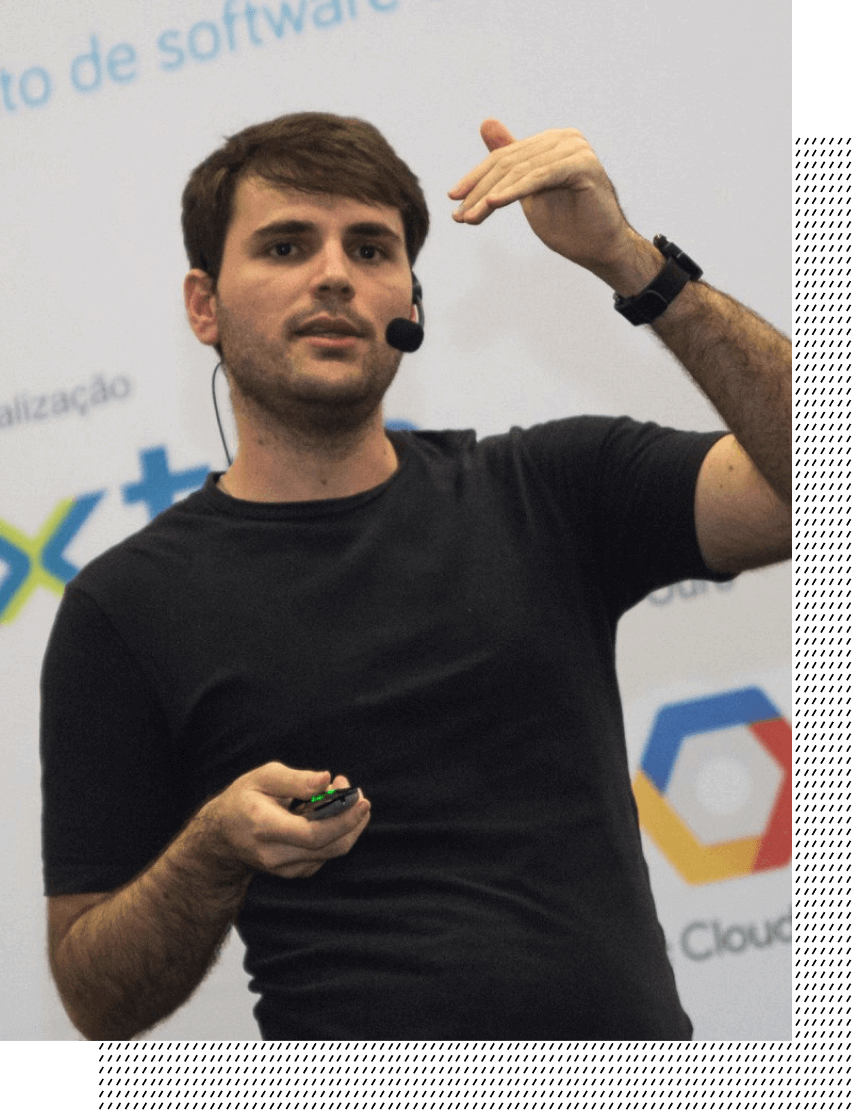
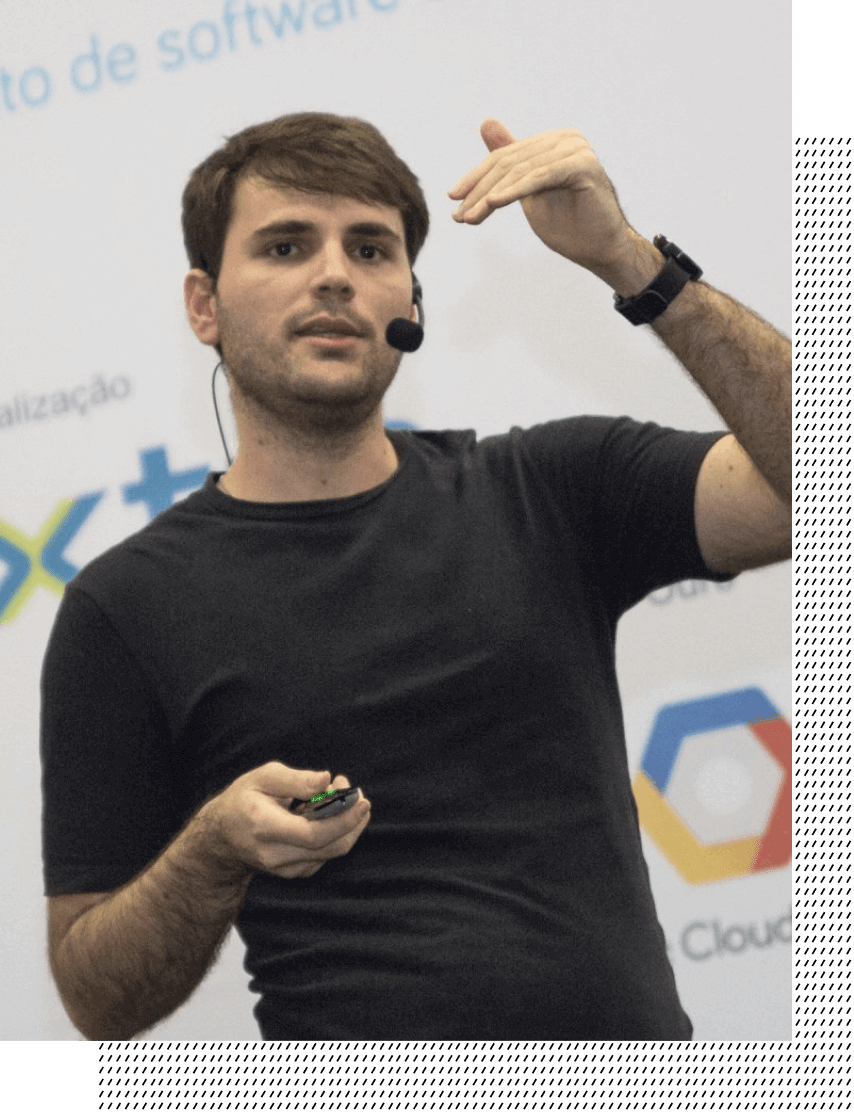
Add webp images

diff --git a/docs/css/index.css b/docs/css/index.css
@@ -1,1 +1,1 @@
[2 lines of base64/hex data omitted]

diff --git a/docs/css/cv.css b/docs/css/cv.css
@@ -1,1 +1,1 @@
[2 lines of base64/hex data omitted]

diff --git a/docs/cv.html b/docs/cv.html
@@ -1,4 +1,4 @@
-<!DOCTYPE html><html lang="en" class="no-js"><head><meta charset="UTF-8"><meta http-equiv="X-UA-Compatible" content="IE=edge"><meta name="viewport" content="width=device-width, initial-scale=1"><meta name="title" content="Matheus Costa • Resume"><meta name="description" content="This is Matheus's resume. You can either check online or download the pdf version"><meta property="og:type" content="website"><meta property="og:url" content="https://matheusagcosta.com"><meta property="og:title" content="Matheus Costa • Resume"><meta property="og:description" content="This is Matheus's resume. You can either check online or download the pdf version"><meta property="og:image" content="https://matheusagcosta.com/assets/image-matheus.jpg"><meta property="og:locale" content="en_US"><meta property="og:site_name" content="matheusagcosta"><meta property="twitter:card" content="summary_large_image"><meta property="twitter:url" content="https://matheusagcosta.com"><meta property="twitter:title" content="Matheus Costa • Resume"><meta property="twitter:description" content="This is Matheus's resume. You can either check online or download the pdf version"><meta property="twitter:image" content="https://matheusagcosta.com/assets/image-matheus.jpg"><meta name="twitter:site" content="@matheusagcosta"><meta name="twitter:image:src" content="https://matheusagcosta.com/assets/image-matheus.jpg"><meta name="twitter:card" content="summary_large_image"><meta name="twitter:title" content="Matheus Costa • Resume"><meta name="twitter:description" content="This is Matheus's resume. You can either check online or download the pdf version"><meta name="keywords" content="ui developer, ux developer, ui designer, web designer, designer, front-end developer, front-end designer"><meta name="author" content="Matheus Costa"><meta name="theme-color" content="#C56552"><meta name="msapplication-TileColor" content="#ffffff"><link rel="apple-touch-icon" sizes="180x180" href="/assets/favicon/apple-touch-icon.png?v=zXbkA6lpMr"><link rel="icon" type="image/png" sizes="32x32" href="/assets/favicon/favicon-32x32.png?v=zXbkA6lpMr"><link rel="icon" type="image/png" sizes="16x16" href="/assets/favicon/favicon-16x16.png?v=zXbkA6lpMr"><link rel="manifest" href="/assets/favicon/site.webmanifest?v=zXbkA6lpMr"><link rel="mask-icon" href="/assets/favicon/safari-pinned-tab.svg?v=zXbkA6lpMr" color="#c56552"><link rel="shortcut icon" href="/assets/favicon/favicon.ico?v=zXbkA6lpMr"><link rel="stylesheet" href="/css/cv.css"><title>Matheus Costa • Resume</title></head><body id="contrast-on"><header role="banner" class="header header--fixed"><a href="/" aria-label="logo" class="header__logo logo is-light-visible"><svg viewBox="0 0 42 42" fill="none" xmlns="http://www.w3.org/2000/svg" class="logo__image"><path fill-rule="evenodd" clip-rule="evenodd" d="M38 4H4v34h34V4zM0 0v42h42V0H0z"></path><path d="M24.767 29v-8.228l-2.618 5.786h-2.288l-2.618-5.786V29h-4.29V13.38h4.686l3.366 7.348 3.388-7.348h4.664V29h-4.29z"></path></svg></a><a href="/#contrast-on" aria-label="logo" class="header__logo logo is-dark-visible"><svg viewBox="0 0 42 42" fill="none" xmlns="http://www.w3.org/2000/svg" class="logo__image"><path fill-rule="evenodd" clip-rule="evenodd" d="M38 4H4v34h34V4zM0 0v42h42V0H0z"></path><path d="M24.767 29v-8.228l-2.618 5.786h-2.288l-2.618-5.786V29h-4.29V13.38h4.686l3.366 7.348 3.388-7.348h4.664V29h-4.29z"></path></svg></a><div class="header__actions"><nav class="header__switcher"><a href="#contrast-on" aria-label="Dark" class="header__toggle"></a><a href="#contrast-off" aria-label="Light" class="header__toggle"></a><span class="header__button"></span></nav><nav class="header__menu"><a href="/cv-matheusagcosta.pdf" aria-label="Link to Download" class="header__link">Download</a><a href="/" aria-label="Link to Home" class="header__link is-light-visible">Home</a><a href="/#contrast-on" aria-label="Link to Home" class="header__link is-dark-visible">Home</a></nav></div></header><main class="resume"><section class="resume__header"><div class="resume__avatar"><img src="../assets/image-cv.png" alt="Photo of Matheus in a company" class="resume__image"></div><div class="resume__headline"><h1 class="resume__heading">Matheus Costa</h1><h3 class="resume__subheading">Senior UX Developer & UI Designer</h3></div></section><section class="resume__content"><div class="resume__column"><div class="resume__block"><h4 class="resume__title">Biography</h4><p>I’m a brazilian designer who codes. I’ve worked in-house and remotely on tons of different projects. I also love open source, so I help a group called Devtalks Bauru and collaborate as a local leader of IxDA Bauru. Sometimes I speak at events about front-end, design or remote work.</p></div><div class="resume__block"><h4 class="resume__title">Education</h4><p><strong>Bachelor of Design Degree </strong>(2011 - 2014)</p><p>Universidade do Sagrado Coração (USC)</p></div><div class="resume__block"><h4 class="resume__title">Contact</h4><p> <a href="mailto:hi@matheusagcosta.com" aria-label="Send me an Email"> 
+<!DOCTYPE html><html lang="en" class="no-js"><head><meta charset="UTF-8"><meta http-equiv="X-UA-Compatible" content="IE=edge"><meta name="viewport" content="width=device-width, initial-scale=1"><meta name="title" content="Matheus Costa • Resume"><meta name="description" content="This is Matheus's resume. You can either check online or download the pdf version"><meta property="og:type" content="website"><meta property="og:url" content="https://matheusagcosta.com"><meta property="og:title" content="Matheus Costa • Resume"><meta property="og:description" content="This is Matheus's resume. You can either check online or download the pdf version"><meta property="og:image" content="https://matheusagcosta.com/assets/image-matheus.jpg"><meta property="og:locale" content="en_US"><meta property="og:site_name" content="matheusagcosta"><meta property="twitter:card" content="summary_large_image"><meta property="twitter:url" content="https://matheusagcosta.com"><meta property="twitter:title" content="Matheus Costa • Resume"><meta property="twitter:description" content="This is Matheus's resume. You can either check online or download the pdf version"><meta property="twitter:image" content="https://matheusagcosta.com/assets/image-matheus.jpg"><meta name="twitter:site" content="@matheusagcosta"><meta name="twitter:image:src" content="https://matheusagcosta.com/assets/image-matheus.jpg"><meta name="twitter:card" content="summary_large_image"><meta name="twitter:title" content="Matheus Costa • Resume"><meta name="twitter:description" content="This is Matheus's resume. You can either check online or download the pdf version"><meta name="keywords" content="ui developer, ux developer, ui designer, web designer, designer, front-end developer, front-end designer"><meta name="author" content="Matheus Costa"><meta name="theme-color" content="#C56552"><meta name="msapplication-TileColor" content="#ffffff"><link rel="apple-touch-icon" sizes="180x180" href="/assets/favicon/apple-touch-icon.png?v=zXbkA6lpMr"><link rel="icon" type="image/png" sizes="32x32" href="/assets/favicon/favicon-32x32.png?v=zXbkA6lpMr"><link rel="icon" type="image/png" sizes="16x16" href="/assets/favicon/favicon-16x16.png?v=zXbkA6lpMr"><link rel="manifest" href="/assets/favicon/site.webmanifest?v=zXbkA6lpMr"><link rel="mask-icon" href="/assets/favicon/safari-pinned-tab.svg?v=zXbkA6lpMr" color="#c56552"><link rel="shortcut icon" href="/assets/favicon/favicon.ico?v=zXbkA6lpMr"><link rel="stylesheet" href="/css/cv.css"><title>Matheus Costa • Resume</title></head><body id="contrast-on"><header role="banner" class="header header--fixed"><a href="/" aria-label="logo" class="header__logo logo is-light-visible"><svg viewBox="0 0 42 42" fill="none" xmlns="http://www.w3.org/2000/svg" class="logo__image"><path fill-rule="evenodd" clip-rule="evenodd" d="M38 4H4v34h34V4zM0 0v42h42V0H0z"></path><path d="M24.767 29v-8.228l-2.618 5.786h-2.288l-2.618-5.786V29h-4.29V13.38h4.686l3.366 7.348 3.388-7.348h4.664V29h-4.29z"></path></svg></a><a href="/#contrast-on" aria-label="logo" class="header__logo logo is-dark-visible"><svg viewBox="0 0 42 42" fill="none" xmlns="http://www.w3.org/2000/svg" class="logo__image"><path fill-rule="evenodd" clip-rule="evenodd" d="M38 4H4v34h34V4zM0 0v42h42V0H0z"></path><path d="M24.767 29v-8.228l-2.618 5.786h-2.288l-2.618-5.786V29h-4.29V13.38h4.686l3.366 7.348 3.388-7.348h4.664V29h-4.29z"></path></svg></a><div class="header__actions"><nav class="header__switcher"><a href="#contrast-on" aria-label="Dark" class="header__toggle"></a><a href="#contrast-off" aria-label="Light" class="header__toggle"></a><span class="header__button"></span></nav><nav class="header__menu"><a href="/cv-matheusagcosta.pdf" aria-label="Link to Download" class="header__link">Download</a><a href="/" aria-label="Link to Home" class="header__link is-light-visible">Home</a><a href="/#contrast-on" aria-label="Link to Home" class="header__link is-dark-visible">Home</a></nav></div></header><main class="resume"><section class="resume__header"><div class="resume__avatar"><picture><source srcset="../assets/image-cv.webp" type="image/webp" class="resume__image"><source srcset="../assets/image-cv.png" type="image/png" class="resume__image"><img src="../assets/image-cv.png" alt="Photo of Matheus in a company" class="resume__image"></picture></div><div class="resume__headline"><h1 class="resume__heading">Matheus Costa</h1><h2 class="resume__subheading">Senior UX Developer & UI Designer</h2></div></section><section class="resume__content"><div class="resume__column"><div class="resume__block"><h4 class="resume__title">Biography</h4><p>I’m a brazilian designer who codes. I’ve worked in-house and remotely on tons of different projects. I also love open source, so I help a group called Devtalks Bauru and collaborate as a local leader of IxDA Bauru. Sometimes I speak at events about front-end, design or remote work.</p></div><div class="resume__block"><h4 class="resume__title">Education</h4><p><strong>Bachelor of Design Degree </strong>(2011 - 2014)</p><p>Universidade do Sagrado Coração (USC)</p></div><div class="resume__block"><h4 class="resume__title">Contact</h4><p> <a href="mailto:hi@matheusagcosta.com" aria-label="Send me an Email"> 
 hi@matheusagcosta.com</a></p><p> <a href="https://matheusagcosta.com" target="_blank" rel="noopener noreferrer"> 
 https://matheusagcosta.com</a></p><p> <a href="https://www.linkedin.com/in/matheusagcosta" target="_blank" rel="noopener noreferrer"> 
 @matheusagcosta</a></p></div><div class="resume__block"><h4 class="resume__title">Languages</h4><p><strong>Portuguese: </strong>Native Speaker</p><p><strong>English: </strong>Near Fluent</p><p><strong>Spanish: </strong>Near Fluent</p></div><div class="resume__block"><h4 class="resume__title">Skills</h4><p><strong>Design </strong>tools like Figma, Invision, Photoshop, Balsamiq and Zeplin.</p><p><strong>HTML </strong>semantic with pre-processors such as Slim, Pug or HAML.</p><p><strong>CSS </strong>modular using BEM, ITCSS and pre-processors (Sass, Stylus or Less)</p><p><strong>Javascript </strong>presentational, creating components (Vue, React or jQuery).</p></div></div><div class="resume__column"><div class="resume__block"><h4 class="resume__title">Work Experience</h4><ul><li><p><strong>Lead UX Developer / UI Designer </strong>(2017 - Present)</p><p><a href="https://eventene.com" target="_blank" rel="noopener noreferrer"><i>Eventene</i></a> 🇺🇸</p><p>I‘ve been redesigning web and mobile apps. Had a chance to try new tools like Figma, Harp.js and Styled Components. The stack has React, Vue.js, Sass, Pug and Slim.</p></li><li><p><strong>Lead Web Designer </strong>(2016 - 2017)</p><p><a href="https://www.e-xact.com/" target="_blank" rel="noopener noreferrer"><i>E-xact Transactions</i></a> 🇨🇦</p><p>I was hired to redesign the legacy product, so we developed a SPA using Vue.js and Node.js. I also made a design system with Jekyll and Sass to keep things synced and reusable.</p></li><li><p><strong>UX Developer / UI Designer </strong>(2014 - 2016)</p><p><a href="https://impulso.work/" target="_blank" rel="noopener noreferrer"><i>Helabs</i></a> 🇧🇷</p><p>Here I led the front-end team with code reviews, pair programming and recruitment. I developed front-end side of Ruby, Node.js and Python apps. Their stack had Sass, Bourbon, Slim, Jade (Pug), Jekyll, Angular, React and jQuery.</p></li><li><p><strong>UX Developer / UI Designer </strong>(2014)</p><p><a href="https://fireworkweb.com.br/" target="_blank" rel="noopener noreferrer"><i>Firework Web & Mobile</i></a> 🇧🇷</p><p>I worked a few months designing interfaces for Web, iOS / Android apps and developing front-end side of PHP projects. Their stack had Sass, Bootstrap, jQuery and Photoshop.</p></li><li><p><strong>UX Developer / UI Designer </strong>(2011 - 2014)</p><p><a href="https://arcasolutions.com/" target="_blank" rel="noopener noreferrer"><i>Arca Solutions</i></a> 🇧🇷</p><p>I started as an intern, so I learned how to created mockups for Web, iOS e Android apps. I also designed brand identities and developed front-end side of PHP projects. Their stack had Less, Bootstrap / Foundation, jQuery, Balsamiq and Photoshop.</p></li></ul></div></div></section></main></body></html>

diff --git a/_src/css/_resume.scss b/_src/css/_resume.scss
@@ -14,8 +14,13 @@
     min-height: 180px;
   }
 
+  &__avatar {
+    max-width: 466px;
+  }
+
   &__image {
-    margin: 1.5rem 1.5rem -5.5rem;
+    filter: saturate(1.5);
+    margin: 0 1.5rem -5.5rem;
     width: 82%;
   }
 
@@ -36,6 +41,7 @@
   }
 
   &__subheading {
+    font-weight: normal;
     font-size: 1.25rem;
   }
 

diff --git a/_src/css/_talks.scss b/_src/css/_talks.scss
@@ -5,8 +5,9 @@
   margin: 0 0 2rem;
 
   &__image {
-    padding: 2rem;
+    filter: saturate(1.25);
     min-width: 320px;
+    padding: 2rem;
     width: 40%;
   }
 
